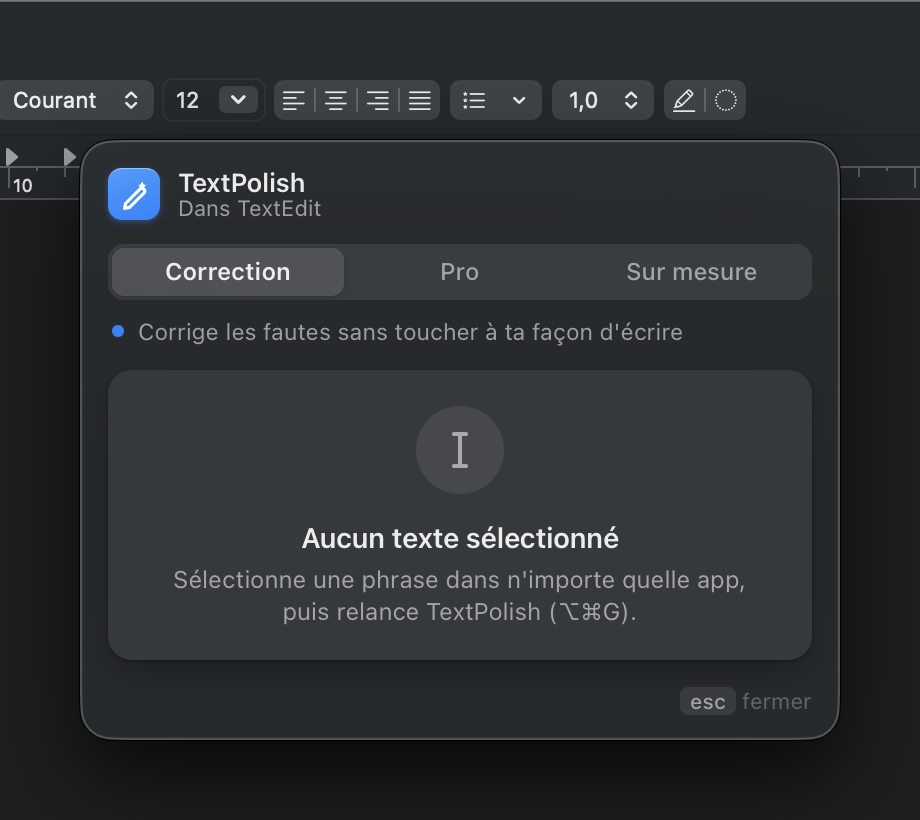
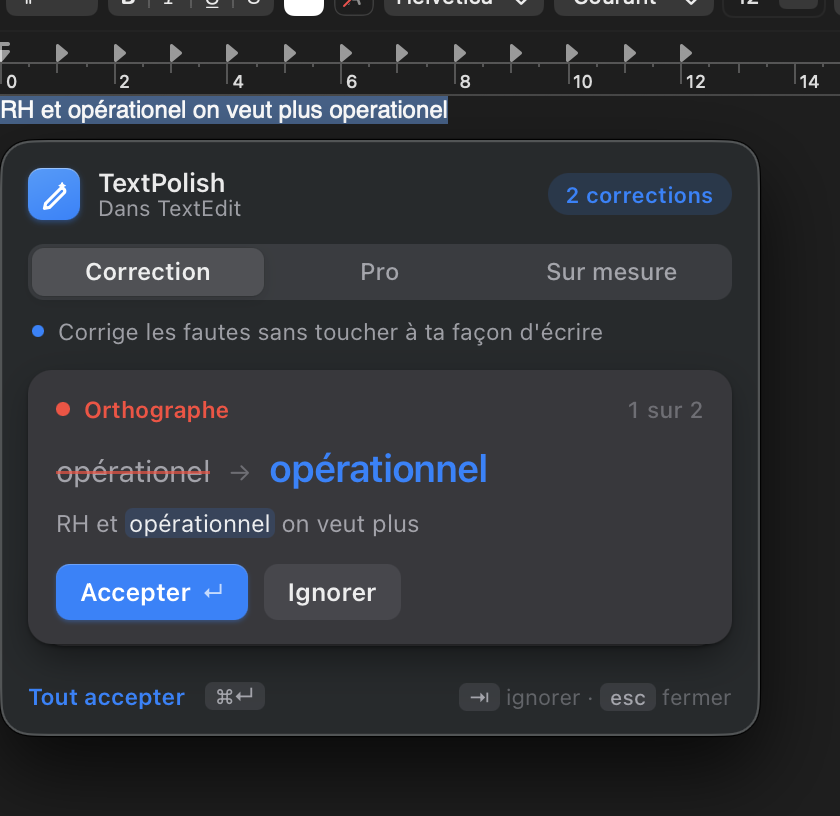
docs: make numbers and claims consistent across the project
- README: current mode names and features (no mascot, no word-by-word
  streaming on macOS), 4.3 GB download, long-text timings, keep-alive
  and local-vs-cloud trade-offs as measured
- case study: 119 tests, MLX 2.6x, long-message timing, card screenshot
  that showed the no-selection state
- HANDOFF: current state first, September notes moved to history
- web demo: Correction / Sur mesure labels, gemini-2.5-flash-lite

diff --git a/docs/case-study.html b/docs/case-study.html
@@ -144,7 +144,7 @@
     <div class="meta">
       <span class="label">Python · PyObjC · WebKit</span>
       <span class="label">Ollama · Gemma 4 E2B</span>
-      <span class="label">112 tests</span>
+      <span class="label">119 tests</span>
     </div>
   </div>
   <figure>
@@ -223,12 +223,12 @@
   <div class="stats">
     <div><div class="stat">0,5–1 s</div><p>pour corriger ou réécrire une phrase, quand le modèle est déjà chargé</p></div>
     <div><div class="stat">3–6 s</div><p>la première fois, ou après 5 minutes sans s'en servir</p></div>
-    <div><div class="stat">&lt; 1 s</div><p>pour changer de mode, contre 5 s avant</p></div>
+    <div><div class="stat">&lt; 1 s</div><p>pour passer une phrase en Pro, contre 5 s avant (rechargement du modèle)</p></div>
     <div><div class="stat">0</div><p>octet envoyé sur Internet</p></div>
   </div>
   <p>Je donne les deux temps, parce que c'est le second qu'on remarque. Après 5 minutes sans utilisation, Ollama retire le modèle de la mémoire pour rendre ses 4,3 Go au reste du Mac, et il faut le recharger. Juste après un redémarrage, la première correction a même pris 9 à 15 secondes. J'ai préféré libérer la mémoire ; on peut garder le modèle chargé plus longtemps dans les réglages.</p>
   <p>Le changement de mode coûtait 5 secondes : j'utilisais un modèle pour corriger et un autre pour réécrire, et avec un navigateur et un éditeur ouverts, mon Mac ne pouvait pas garder les deux en mémoire. J'ai fini par trouver un seul modèle assez bon pour les trois modes, et ce délai a disparu.</p>
-  <p>J'ai aussi essayé MLX, le moteur d'Apple que les dernières versions d'Ollama savent utiliser. C'était trois fois plus rapide (0,34 s), mais le modèle prenait 7,4 Go de mémoire et mon Mac commençait à ramer. J'ai gardé la version plus légère et noté MLX comme option pour les Mac qui ont plus de RAM.</p>
+  <p>J'ai aussi essayé MLX, le moteur d'Apple que les dernières versions d'Ollama savent utiliser. C'était 2,6 fois plus rapide (0,34 s contre 0,88 s), mais le modèle prenait 7,4 Go de mémoire et mon Mac commençait à ramer. J'ai gardé la version plus légère et noté MLX comme option pour les Mac qui ont plus de RAM.</p>
 </section>
 
 <section class="col">
@@ -274,7 +274,7 @@
         <tbody>
           <tr class="pick"><td><code>gemma4:e2b-it-qat</code></td><td class="num">11/12 · ~1 s à chaud</td><td>Retenu pour les trois modes</td></tr>
           <tr><td><code>gemma4:e2b-nvfp4</code> (MLX)</td><td class="num">10/12 · 0,34 s</td><td>Le plus rapide, mais 7,4 Go de mémoire</td></tr>
-          <tr><td><code>gemma4:e4b-it-qat</code></td><td class="num">5/5 Pro</td><td>Même qualité, plus lent</td></tr>
+          <tr><td><code>gemma4:e4b-it-qat</code></td><td class="num">5,00/5 Pro (juge)</td><td>Même qualité, 1,6 fois plus lent</td></tr>
           <tr><td><code>ministral-3:3b</code></td><td class="num">10/12 · 0,67 s</td><td>Correction en série 5 ; écrit des e-mails entiers en Pro</td></tr>
           <tr><td><code>ministral-3:8b</code></td><td class="num">12–15 s</td><td>Trop lent</td></tr>
           <tr><td><code>gemma3:4b</code></td><td class="num">5/5 Pro · 6/12</td><td>Pro jusqu'à la série 6 ; « Dear [Recipient Name] »</td></tr>
@@ -320,6 +320,7 @@
         <tr><td><kbd>⌘2</kbd> pendant la correction</td><td class="num">1,6–1,7 s</td><td>C'est la version pro qui s'affiche</td></tr>
         <tr><td>Sur mesure « en anglais », puis <kbd>⌘↵</kbd></td><td class="num">0,6 s</td><td>Phrase traduite collée</td></tr>
         <tr><td>Compte rendu de 338 caractères, tout accepter</td><td class="num">2,7 s</td><td>9 corrections collées</td></tr>
+        <tr><td>Message de 379 caractères avec 13 fautes (vidéo)</td><td class="num">3–4 s</td><td>13 corrections, chacune avec son type</td></tr>
         <tr><td>Aucun texte sélectionné</td><td class="num">1,2 s</td><td>Message d'aide, le modèle n'est pas appelé</td></tr>
         <tr><td><kbd>Échap</kbd></td><td class="num">0,35 s</td><td>Fenêtre fermée, texte intact</td></tr>
       </tbody>

diff --git a/docs/textpolish-cloud.html b/docs/textpolish-cloud.html
@@ -442,8 +442,8 @@
       <!-- mode chips -->
       <div class="chips">
         <button class="chip active" data-mode="pro"    onclick="setMode('pro')">Pro</button>
-        <button class="chip"        data-mode="casual" onclick="setMode('casual')">Décontracté</button>
-        <button class="chip"        data-mode="custom" onclick="setMode('custom')">Perso</button>
+        <button class="chip"        data-mode="casual" onclick="setMode('casual')">Correction</button>
+        <button class="chip"        data-mode="custom" onclick="setMode('custom')">Sur mesure</button>
       </div>
 
       <!-- repolish button -->
@@ -590,8 +590,8 @@ Rules:
 9. Preserve the meaning, intent, and format as much as possible.`,
 };
 
-const MODE_LABELS = { pro: "Professionnel", casual: "Décontracté", custom: "Personnalisé" };
-const MODE_HINTS  = { pro: "style professionnel", casual: "style décontracté", custom: "style personnalisé" };
+const MODE_LABELS = { pro: "Professionnel", casual: "Correction", custom: "Sur mesure" };
+const MODE_HINTS  = { pro: "style professionnel", casual: "corrige sans réécrire", custom: "selon ta demande" };
 
 // ---- State ----
 let currentMode = "pro";
@@ -723,7 +723,7 @@ async function polish() {
   if (currentMode === "custom") {
     const instr = document.getElementById("instructionText").value.trim();
     if (!instr) {
-      setStatus("Entrez une instruction pour le mode Personnalisé.");
+      setStatus("Entrez une demande pour le mode Sur mesure.");
       document.getElementById("instructionText").focus();
       return;
     }
@@ -751,7 +751,7 @@ async function polish() {
 
   try {
     const resp = await fetch(
-      `https://generativelanguage.googleapis.com/v1beta/models/gemini-2.0-flash:streamGenerateContent?key=${encodeURIComponent(apiKey)}&alt=sse`,
+      `https://generativelanguage.googleapis.com/v1beta/models/gemini-2.5-flash-lite:streamGenerateContent?key=${encodeURIComponent(apiKey)}&alt=sse`,
       {
         method: "POST",
         headers: { "Content-Type": "application/json" },

diff --git a/README.md b/README.md
@@ -25,11 +25,11 @@ The popup reads the selection, then adapts: one card per correction for short te
 
 | Feature | Description |
 |---------|-------------|
-| **Three rewrite modes** | Professional (full rewrite), Casual (light touch, keeps tone), Custom (any instruction) |
-| **Streaming output** | Corrected text appears word by word in the panel as the model generates — no waiting for the full response |
-| **Correction history** | Last 10 corrections available in the ✏ menu → History. Click any entry to copy the corrected text |
-| **Configurable shortcut** (macOS only) | Change the keyboard shortcut live from ✏ → Preferences… (Cmd+,) — no restart needed. On Windows, edit `SHORTCUT` in `config.py` and restart the app |
-| **Panel UI** (macOS) | Native WKWebView panel with Pip, a small pixel-art mascot that reacts to the selected mode |
+| **Three modes** | Correction (fixes mistakes only, default), Pro (⌘2, professional rewrite), Sur mesure (⌘3, your own request: translate, shorten, warmer…) |
+| **Every fix explained** | Each correction is labelled: spelling, accent, conjugation, agreement, homophone, punctuation. Short texts get one card per fix, long ones a highlighted document |
+| **Correction history** | Last 10 corrections in the ✏ menu → Historique. Click an entry to copy the corrected text |
+| **Configurable shortcut** (macOS only) | Change the keyboard shortcut live from ✏ → Préférences… (Cmd+,) — no restart needed. On Windows, edit `SHORTCUT` in `config.py` and restart the app |
+| **Native-feeling popup** (macOS) | Opens under the selection with macOS vibrancy, light and dark mode, full keyboard control (↵ ⇥ ⌘↵ ⌘1-3 esc) |
 | **Fully private** | Everything runs on your machine. No API key, no telemetry, no data ever leaves your computer |
 | **System-level** | Works in any app — VS Code, Notion, Mail, Slack. Panel stays above fullscreen apps |
 
@@ -60,7 +60,7 @@ bash setup.sh
 - Registers the Launch Agent (survives reboots)
 - Creates **TextPolish.app** on your Desktop
 
-Then pull the AI models (one-time, ~2 GB total):
+Then pull the AI model (one-time, 4.3 GB):
 
 ```bash
 ollama pull gemma4:e2b-it-qat   # one model for all three modes (Ollama 0.40+)
@@ -99,7 +99,7 @@ launchctl bootstrap gui/$(id -u) ~/Library/LaunchAgents/com.user.textpolish.plis
 | `Cannot connect to Ollama` | Run `ollama serve` in a terminal |
 | `Model not found` | Run `ollama pull gemma4:e2b-it-qat` |
 | Timeout errors | Use a smaller model or raise `OLLAMA_TIMEOUT` in `config.py` |
-| High RAM after use | Set `OLLAMA_KEEP_ALIVE = 0` in `config.py` |
+| High RAM after use | Lower `OLLAMA_KEEP_ALIVE` in `config.py` (0 frees the 4.3 GB right away, but every request then waits 3–6 s for the model to load) |
 | Shortcut not working | Grant Accessibility in System Settings |
 | Text not pasted back | Keep the source app focused |
 | App won't start | Check `~/Library/Logs/TextPolish/textpolish.log` for errors |
@@ -127,7 +127,7 @@ pip install -r requirements-windows.txt
 copy config.example.py config.py
 ```
 
-Then pull the AI models (one-time, ~2 GB total):
+Then pull the AI model (one-time, 4.3 GB):
 
 ```bash
 ollama pull gemma4:e2b-it-qat
@@ -152,7 +152,7 @@ A ✏ icon appears in the system tray — the app is running.
 | `Cannot connect to Ollama` | Run `ollama serve` in a terminal |
 | `Model not found` | Run `ollama pull gemma4:e2b-it-qat` |
 | Timeout errors | Use a smaller model or raise `OLLAMA_TIMEOUT` in `config.py` |
-| High RAM after use | Set `OLLAMA_KEEP_ALIVE = 0` in `config.py` |
+| High RAM after use | Lower `OLLAMA_KEEP_ALIVE` in `config.py` (0 frees the 4.3 GB right away, but every request then waits 3–6 s for the model to load) |
 | Shortcut not working | Make sure no other app uses Ctrl+Alt+G |
 | Text not pasted back | Keep the source app focused |
 
@@ -190,6 +190,10 @@ SHORTCUT            = "<cmd>+<alt>+g"     # macOS: Cmd+Option+G, Windows: Ctrl+A
 |---|---:|---:|
 | Short sentence, any mode | 0.5–1.1 s | 3–6 s |
 | 338-character report (Correction) | 2.7 s | — |
+| 379-character message, 13 mistakes (demo video) | 3–4 s | — |
+| ~1,500 characters (Correction) | ~10 s | — |
+
+Time grows with the length of the answer (about 30–35 tokens per second). The 4,000-character input limit stays under the 60 s timeout.
 
 Cold happens on the first request and again after 5 minutes without use (`OLLAMA_KEEP_ALIVE = 300` frees the 4.3 GB of RAM). Right after a reboot, when macOS has not cached the model file yet, the first request took 9–15 s. Raise `OLLAMA_KEEP_ALIVE` if you prefer speed over free RAM.
 
@@ -202,6 +206,7 @@ textpolish/
 ├── main.py              # Entry point — detects OS, loads the right backend
 ├── clipboard.py         # Copy / paste logic     ─┐
 ├── llm.py               # Ollama request layer     │
+├── diff.py              # Groups and labels fixes  │
 ├── history.py           # Correction history        ├─ shared across platforms
 ├── polish_job.py        # Correction threading      │
 ├── prompts/             # Prompt templates         ─┘
@@ -210,7 +215,7 @@ textpolish/
 └── platforms/
     ├── macos/                 # PyObjC · NSPanel · WKWebView · CGEventTap
     │   ├── ui.py
-    │   ├── panel.html         # WKWebView UI (Pip mascot, HTML/CSS/JS)
+    │   ├── panel.html         # WKWebView UI: cards, document view, rewrite (HTML/CSS/JS)
     │   ├── main.py
     │   ├── hotkey.py
     │   └── shortcut_parser.py # Pure shortcut parsing, no PyObjC dependency
@@ -238,7 +243,7 @@ Warm = median over the test set with the model in RAM. Cold = `ollama stop`, the
 
 Key findings that shaped this choice:
 
-- **One model beats two.** With a Correction model and a Pro model, every mode switch reloaded a model (~5 s on 16 GB). One model makes switching instant.
+- **One model beats two.** With a Correction model and a Pro model, every mode switch reloaded a model (~5 s on 16 GB). With one model, switching modes adds no wait (0.75–0.8 s for a sentence in Pro).
 - **Gemma 4 E2B matches the previous Correction model and is better at Pro and Sur mesure.** `gemma3:4b` added "Dear [Recipient Name]" placeholders and once reversed the meaning of a sentence; `ministral-3:3b` answered a message instead of rewriting it.
 - **Hybrid-reasoning models need `"think": false`.** Gemma 4, Qwen 3.5 and LFM3 think by default on Ollama; without it a 1 s correction takes tens of seconds. LFM3 still printed its reasoning into the answer and was dropped.
 - **MLX is faster but heavier.** Ollama 0.40 runs `gemma4:e2b-nvfp4` on Apple's MLX engine: 0.34 s per correction, but ~7.4 GB in RAM, which pushed this 16 GB Mac into swap. It is the better choice on 24 GB or more.
@@ -256,9 +261,9 @@ This project started as a way to understand how to integrate a language model in
 
 Building it surfaced a few things that tutorials don't really cover:
 
-- **Model size vs. latency** — a 4B model rewrites better but takes 5–8s; a 1B model is nearly instant but misses nuance. The right choice depends on the use case, not just benchmarks.
-- **Keeping a model in RAM** — loading a model from disk on every request adds 2–3s of overhead. `keep_alive` keeps it warm between requests, but costs RAM permanently. It's a trade-off you have to tune per machine.
-- **Local vs. cloud latency** — a local model on an M-series chip is often faster than a cloud API for short texts, once the model is loaded. Network round-trips add up.
+- **Model size vs. latency** — in early rounds a 4B model rewrote better but took 5–8 s, and a 1B model was fast but missed real typos. Gemma 4 E2B (2B effective) ended that trade-off at about 1 s, after disabling its "thinking" and fixing the temperature.
+- **Keeping a model in RAM** — loading the model takes 3–6 s (9–15 s after a reboot). `keep_alive` keeps it warm between requests but holds 4.3 GB of RAM; TextPolish frees it after 5 minutes idle. It's a trade-off you have to tune per machine.
+- **Local vs. cloud latency** — once loaded, the local model answers a short sentence in about 0.5–0.9 s, the same as Gemini Flash-Lite over the network (~0.5 s). Local wins on privacy and offline use, not on raw speed, and only when the model is already in RAM.
 - **Integrating an LLM into an OS-level tool** — the LLM part ended up being the simplest piece. The hard parts were the global shortcut, clipboard handling, and making a window appear above fullscreen apps.
 
 Beyond the technical side, this project was also an exercise in building something the way a real open source project is built — using Conventional Commits (`feat:`, `fix:`, `chore:`...), maintaining a proper `LICENSE`, writing a README that someone else can actually follow, and structuring code so it makes sense to a stranger reading it on GitHub. Small habits that make a big difference when a project grows or gets contributors.

diff --git a/HANDOFF.md b/HANDOFF.md
@@ -1,9 +1,36 @@
-# TextPolish — Handoff notes (September 2026)
+# TextPolish — Handoff notes
 
-Status snapshot for resuming work later. Written at the point where work paused on
-`textpolish` to switch to `textpolish-cloud`.
+Status snapshot for resuming work later. The newest state is first; the dated
+sections below it are the history, kept as written at the time.
 
-## Current configuration
+## Current state (November 2, 2026)
+
+| Item | Value |
+|------|-------|
+| Model | `gemma4:e2b-it-qat` for all three modes (only model installed, 4.3 GB) |
+| Ollama | 0.40.13, `"think": false`, temperature 0 Correction / 0.4 Pro & Sur mesure |
+| Modes (UI) | Correction (`casual`), Pro (`pro`), Sur mesure (`custom`) |
+| Quality (Round 6) | 11/12 expected fixes, Pro 5/5, Sur mesure 3/3 (`design/model_eval.py`) |
+| Speed, M2 16 GB | warm 0.5–1.1 s per sentence, 3–4 s for 380 chars, ~10 s for 1,500 chars; cold 3–6 s (9–15 s after reboot); model freed after 5 min idle |
+| Mistake labels | spelling, accent, case, agreement, conjugation, homophone/grammar, punctuation, rewrite (`diff.classify_change`) |
+| Tests | 119 (textpolish), 106 (textpolish-cloud) |
+| Public | GitHub Pages serves `docs/` at https://enguerrand-roques.github.io/textpolish/ (landing page, case study, video) |
+| Demo | `docs/demo.gif`, `docs/textpolish-demo.mp4` (Remotion project in `video/`, clips from `design/record_video.py`) |
+
+Open items:
+- Rotate the Anthropic key in local `config.py` and the Gemini key in textpolish-cloud's (user will do it).
+- Windows UI only got a style refresh; never tested on Windows.
+- Correction still misses 1/12 (drops a "?"); humour in Sur mesure is weak. Next lead: a French-grammar fine-tuned model, or MLX (`gemma4:e2b-nvfp4`, 0.34 s) on a 24 GB+ Mac.
+- The popup closes when it loses focus; another app grabbing focus mid-request (seen once with Grammarly running) hides it.
+- Real-time "as you type" underlining was ruled out (see the September notes below).
+
+---
+
+# History
+
+## September 2026 (paused to work on textpolish-cloud)
+
+### Configuration at the time
 
 | Mode | Model | Why |
 |------|-------|-----|
@@ -12,7 +39,7 @@ Status snapshot for resuming work later. Written at the point where work paused 
 
 Full history and raw numbers: `benchmarks/BENCHMARK_REPORT.md` (Rounds 1–5).
 
-## What changed this session
+### What changed this session
 
 1. **Round 4 benchmark** — re-tested newer model generations (Gemma 4, Qwen3.5, Ministral 3) released since Round 3 against the then-current config. None beat it outright on the 10-case corpus. Found and fixed a real Gemma 4 footgun along the way: it has "thinking" on by default on Ollama, turning a ~2s call into 50+ seconds unless `"think": false` is sent explicitly.
 2. **Code cleanup (4 axes)** — factored the duplicated history/threading logic out of the macOS and Windows UIs into shared modules (`history.py`, `polish_job.py`); extracted shortcut parsing into `platforms/macos/shortcut_parser.py` so it's testable without PyObjC; added test coverage that didn't exist before (`clipboard.py`, history, polish job, shortcut parsing — 19 → 66 tests); synced `README.md` with the actual WKWebView panel architecture; added a native alert when the macOS Accessibility permission is missing (was previously a silent `print`).
@@ -21,7 +48,7 @@ Full history and raw numbers: `benchmarks/BENCHMARK_REPORT.md` (Rounds 1–5).
    - v3: mode chips (Pro/Casual/Perso) are now visible even in the compact view and instantly re-trigger a correction on click — only "Perso" forces an expand, since it needs the instruction field.
 4. **Round 5 (single-case investigation)** — the casual-mode typo bug above; led to the Ministral 3B switch documented in the table.
 
-## Known gotcha hit twice this session
+### Known gotcha hit twice this session
 
 The app doesn't hot-reload. If you edit `ui.py`/`panel.html`/prompts and the running
 `main.py` process was started *before* the edit, you're testing stale code — looks
@@ -31,7 +58,7 @@ ps aux | grep "[m]ain.py"
 ps -p <pid> -o lstart=          # compare to file mtimes
 ```
 
-## Open items / not done yet
+### Open items / not done yet
 
 - **Round 4 corpus not re-run with `ministral-3:3b` as casual.** The switch is based on one targeted real-world case (the "opérationel" bug), not aggregate scores. Worth running `python benchmark_models.py --models ministral-3:3b gemma3:1b-it-qat --judge` for a fuller picture, and watching for over-generation from Ministral on longer/more ambiguous casual inputs (it hallucinated a full fake email in pro mode on a short fragment — same risk class could show up in casual on the wrong input).
 - **Anthropic API key exposed in clear text** in local `config.py` (line 13, gitignored, never committed — confirmed clean history). Recommended to rotate on console.anthropic.com regardless, since it's readable on disk.
@@ -40,13 +67,13 @@ ps -p <pid> -o lstart=          # compare to file mtimes
 - **Local GPU fine-tuning** — user has an NVIDIA GPU at home, raised as a possible way to get a more reliable correction model than picking among pretrained options. Not investigated yet — needs GPU model/VRAM specs before any feasibility call. Current recommendation stands: exhaust pretrained-model swaps (like the Ministral switch) before considering training something custom, given how much the Ministral swap alone fixed for zero cost.
 - **`textpolish-cloud` improvements** — the reason this doc exists. Known gaps there (unchanged since audit, see that repo's own state): no error handling or timeout in `llm.py` (raw Gemini SDK exceptions reach the UI), still on the old native NSPanel UI (never got the WKWebView/diff-popup work this doc describes), no landing page. Proposed order when resumed: robustness (timeout + typed errors) before UI port, since the UI port is the bigger lift and error handling is cheap and unblocks safer testing.
 
-## Where things are documented
+### Where things are documented
 
 - Model choice rationale + all benchmark data: `benchmarks/BENCHMARK_REPORT.md`
 - User-facing feature list and architecture: `README.md`
 - This file: session handoff only — update or delete once stale, it's not meant to be permanent project documentation.
 
-## Reliability pass (October 2026, uncommitted until reviewed)
+## Reliability pass (October 2026)
 
 Fixes from the full project audit:
 - `clipboard.py`: clipboard is emptied before the simulated copy, polled until filled (no more fixed 0.35 s sleep), so "nothing selected" yields an empty text instead of stale clipboard content; the user's clipboard (all macOS types) is restored right after the copy and again after the paste.

diff --git a/benchmarks/BENCHMARK_REPORT.md b/benchmarks/BENCHMARK_REPORT.md
@@ -10,11 +10,11 @@ so a score is a count, not an opinion. Raw outputs: `benchmarks/results/`.
 
 | Model | Rounds | Best result | Why it was kept or dropped |
 |-------|--------|-------------|----------------------------|
-| **`gemma4:e2b-it-qat`** | 4, 6 | **11/12 Correction, 5/5 Pro, 3/3 Perso, ~1 s** | **In use for all modes.** Needs `"think": false` and temperature 0 for Correction |
+| **`gemma4:e2b-it-qat`** | 4, 6 | **11/12 Correction, 5/5 Pro, 3/3 Sur mesure; ~1 s warm, 3–6 s cold** | **In use for all modes.** Needs `"think": false` and temperature 0 for Correction |
 | `gemma4:e2b-nvfp4` (MLX) | 6 | 10/12, 0.34 s | Fastest tested; ~7.4 GB RAM swaps a busy 16 GB Mac. Option for 24 GB+ |
 | `gemma4:e4b-it-qat` | 4 | 5.00/5 Pro (judge) | Same quality as E2B, ~1.6x slower |
 | `gemma4:e4b-nvfp4` (MLX) | 6 | — | Download failed; not tested |
-| `ministral-3:3b` | 4, 5, 6 | 10/12, 0.67 s | Correction model in Round 5; in Pro it wrote whole e-mails, in Perso it answered the message |
+| `ministral-3:3b` | 4, 5, 6 | 10/12, 0.67 s | Correction model in Round 5; in Pro it wrote whole e-mails, in Sur mesure (then "Perso") it answered the message |
 | `ministral-3:8b` | 4 | 4.53/5 (judge) | 12-15 s per request; added Markdown |
 | `gemma3:4b` | 1-6 | 5.00/5 Pro (Round 4) | Pro model until Round 6; 6/12 Correction, "Dear [Recipient Name]" |
 | `gemma3:4b-it-qat` | 1, 3 | 4.77/5 (judge) | Slower than `gemma3:4b` once `num_ctx` was reduced |
@@ -32,7 +32,9 @@ so a score is a count, not an opinion. Raw outputs: `benchmarks/results/`.
 **What the research changed in the app**, beyond the model choice: prompts in English with a
 same-language rule (Round 1), `num_ctx` sized to the input (Round 2), `"think": false` for
 hybrid-reasoning models (Round 4), a stricter language detector and Markdown cleanup (Round 6),
-and per-mode temperature (Round 6). Only `gemma4:e2b-it-qat` is installed now; every other
+and per-mode temperature (Round 6). Later the same day, filming the demo showed that the
+"answer in the input language" rule blocked translation requests on long texts; in Sur mesure
+the rule now yields to the instruction. Only `gemma4:e2b-it-qat` is installed now; every other
 model was removed after testing.
 
 ---

diff --git a/video/README.md b/video/README.md
@@ -1,6 +1,6 @@
 # TextPolish video
 
-The 40-second montage in `docs/textpolish-demo.mp4`, built with [Remotion](https://www.remotion.dev/) from real recordings of the app.
+The 50-second montage in `docs/textpolish-demo.mp4`, built with [Remotion](https://www.remotion.dev/) from real recordings of the app.
 
 1. Film the raw clips (the app must be running, log in `design/app.log`; don't touch the keyboard or mouse for ~1 min 30):
 
